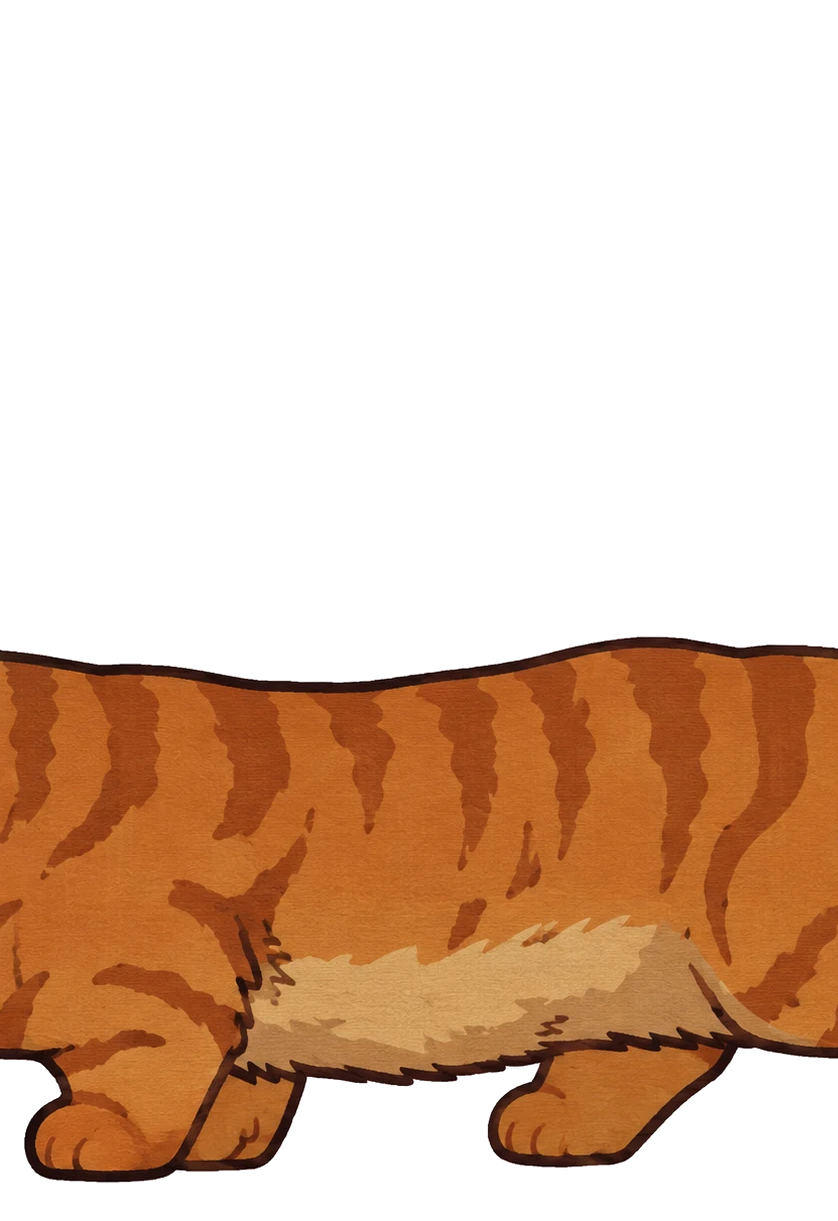
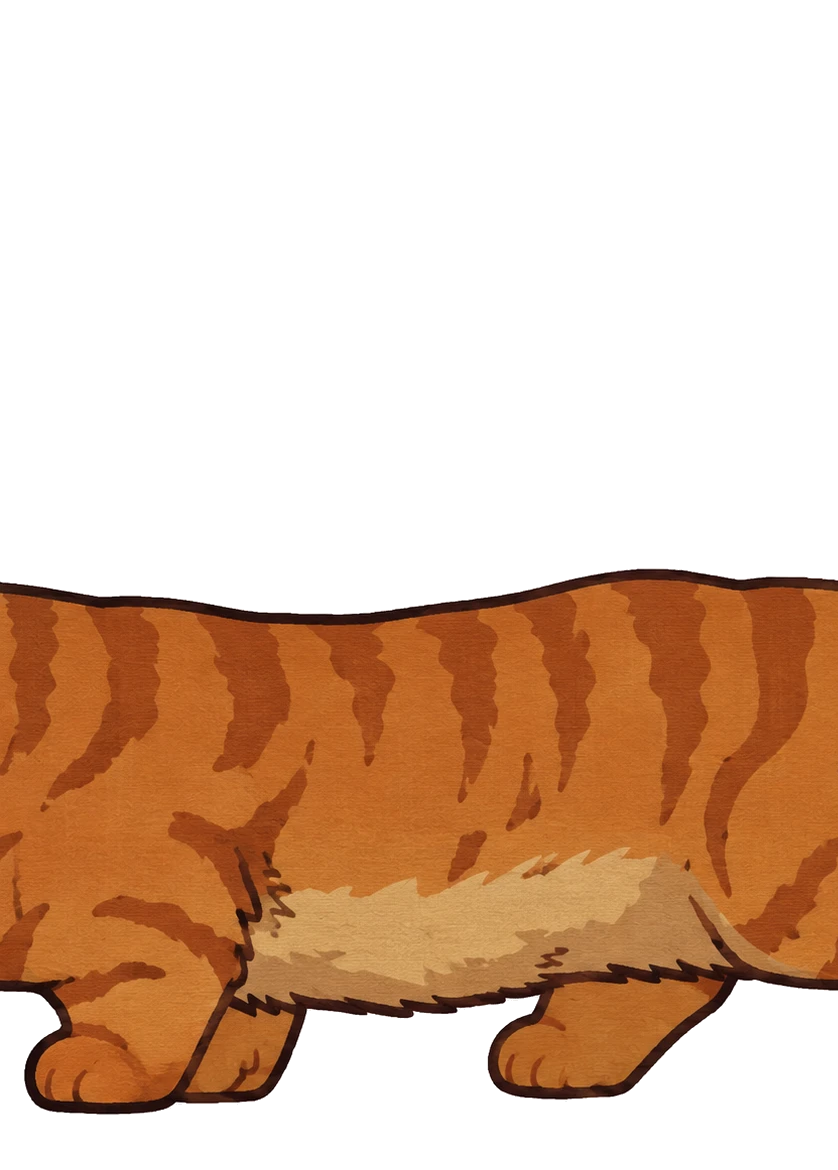
feat(decor): новые голова и хвост кота, стыкуются с ногами тела
Заказчик прислал другие торцы — они лучше садятся на линию ног. Пересобрал
все три части под них: толщина тела на швах сведена к телу, линия спины
общая, холст пересчитан (1170 px, полоса 410). CSS подогнан под новые
пропорции: лента 40px со сдвигом -20, сетка дней 34px.

Changed region(s): [[0.0, 0.4615, 1.0, 0.9846]]

diff --git a/frontend/app/assets/main.css b/frontend/app/assets/main.css
@@ -22175,8 +22175,8 @@ body.nk-body-locked {
   position: absolute;
   left: 0;
   right: 0;
-  top: -22px;
-  height: 42px;
+  top: -20px;
+  height: 40px;
   pointer-events: none;
   background-repeat: no-repeat;
 }
@@ -22185,7 +22185,7 @@ body.nk-body-locked {
 .halloween .vac-detailed-bar.pending::before {
   background-image: url('/decor/halloween/vac-cat-body.png');
   background-repeat: repeat-x;
-  background-size: auto 42px;
+  background-size: auto 40px;
 }
 
 .halloween .vac-detailed-bar.pending::after {
@@ -22193,7 +22193,7 @@ body.nk-body-locked {
     url('/decor/halloween/vac-cat-head.png'),
     url('/decor/halloween/vac-cat-tail.png');
   background-position: left center, right center;
-  background-size: auto 42px, auto 42px;
+  background-size: auto 40px, auto 40px;
 }
 
 /*
@@ -22237,7 +22237,7 @@ body.nk-body-locked {
   right: 0;
   top: 50%;
   height: 34px;
-  margin-top: -6px;
+  margin-top: -17px;
   z-index: 3;
   pointer-events: none;
   background-image: url('/decor/halloween/vac-cat-body.png');
@@ -22250,7 +22250,7 @@ body.nk-body-locked {
   position: absolute;
   top: 50%;
   height: 34px;
-  margin-top: -6px;
+  margin-top: -17px;
   z-index: 4;
   pointer-events: none;
   background-repeat: no-repeat;
@@ -22259,24 +22259,24 @@ body.nk-body-locked {
 
 .halloween .hr-month-grid td.emp-day-pending.emp-pend-seg-start::after,
 .halloween .hr-month-grid td.emp-day-pending.emp-pend-seg-single::after {
-  left: -14px;
-  width: 47px;
+  left: -6px;
+  width: 22px;
   background-image: url('/decor/halloween/vac-cat-head.png');
 }
 
 .halloween .hr-month-grid td.emp-day-pending.emp-pend-seg-end::after,
 .halloween .hr-month-grid td.emp-day-pending.emp-pend-seg-single::after {
-  right: -10px;
+  right: -18px;
   left: auto;
-  width: 41px;
+  width: 44px;
   background-image: url('/decor/halloween/vac-cat-tail.png');
 }
 
 /* Однодневный: голова и хвост на одной клетке, обе накладки через ::after. */
 .halloween .hr-month-grid td.emp-day-pending.emp-pend-seg-single::after {
-  left: -14px;
+  left: -6px;
   right: auto;
-  width: 60px;
+  width: 66px;
   background-image:
     url('/decor/halloween/vac-cat-head.png'),
     url('/decor/halloween/vac-cat-tail.png');
